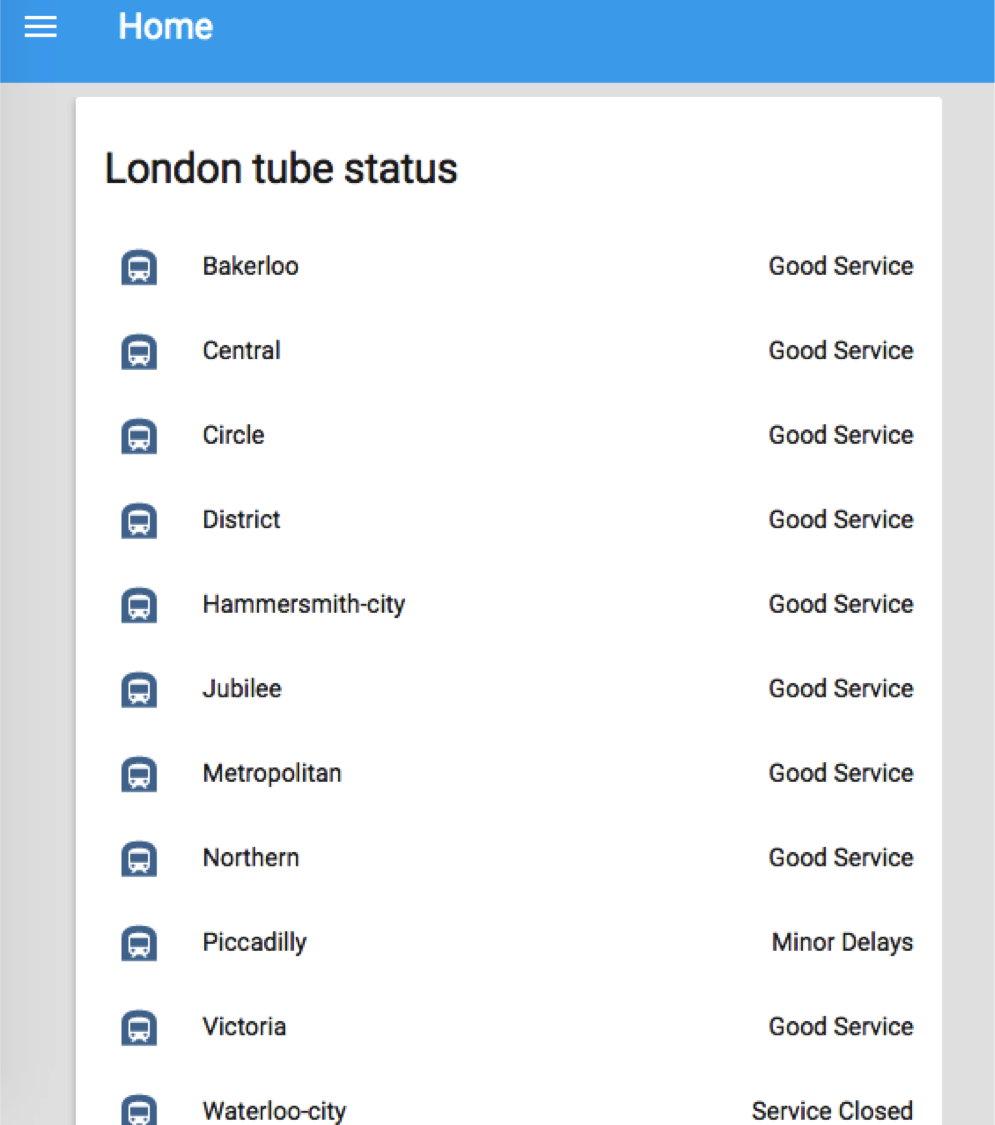
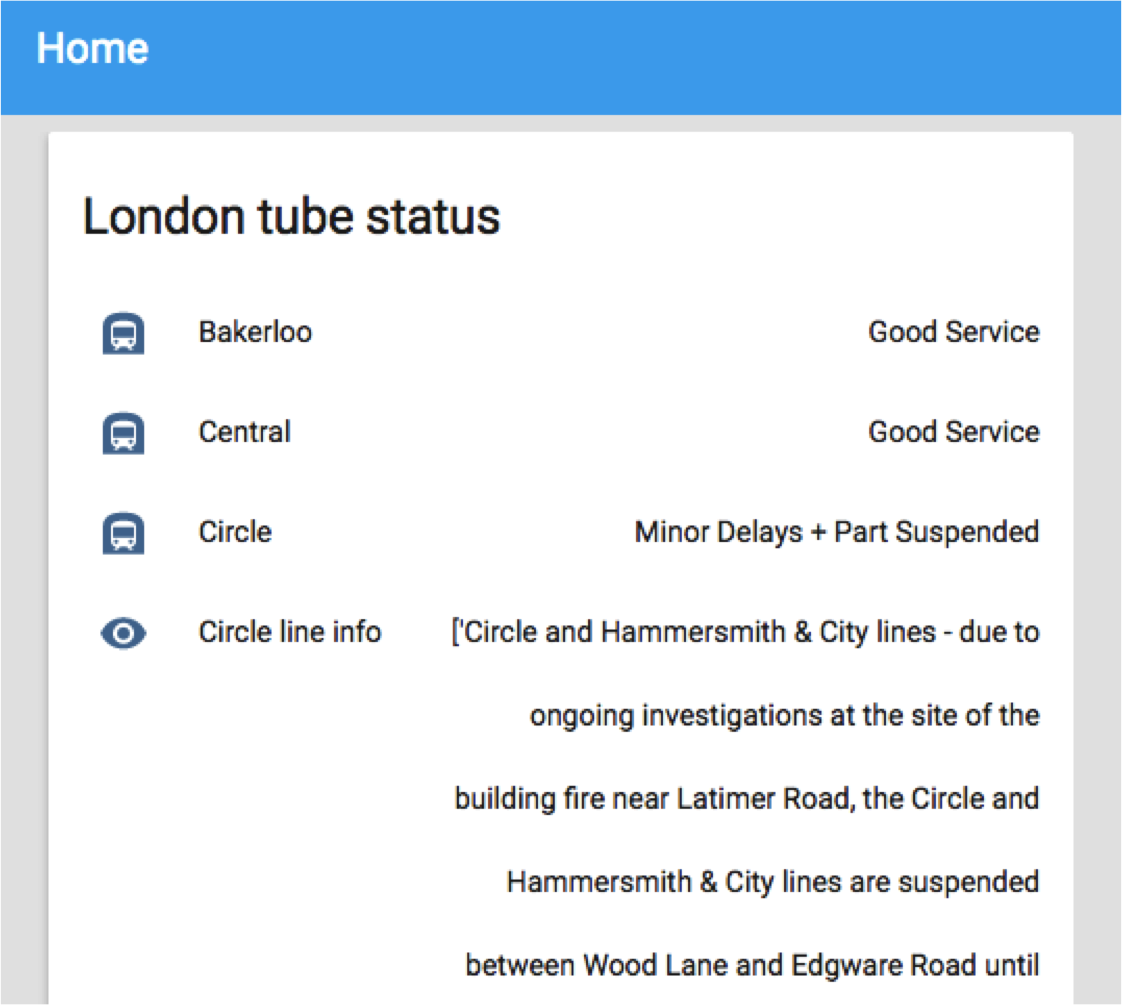
Added attributes
Attributes are statuses, goodness (True = good service), description

diff --git a/tube_state.py b/tube_state.py
@@ -65,6 +65,9 @@ class LondonTubeSensor(Entity):    # Entity
         self._url = self.API_URL_BASE
         self._line = line
         self._state = 'Updating'
+        self._statuses = []
+        self._goodness = False
+        self._description = 'Updating'
 
     @property
     def name(self):
@@ -97,12 +100,23 @@ class LondonTubeSensor(Entity):    # Entity
 
             if 'Good Service' in self._statuses:   # if good status, this is the only status returned
                 self._state = 'Good Service'
+                self._goodness = True              # convenience attribute to detect good service
                 self._description = 'Nothing to report'
             else:
-                self._state = 'Disruptions'
+                self._state = ' + '.join(set(self._statuses))   # get the unique statuses and join
+                self._goodness = False
                 self._description = [status['reason'] for status in self._data] # get the reasons
 
         except requests.RequestException as req_exc:
             print(
                 'Invalid response from API: %s', req_exc
             )
+
+    @property
+    def device_state_attributes(self):
+        """Return other details about the sensor state."""
+        attrs = {ATTR_ATTRIBUTION: ATTRIBUTION}  # {'attribution': 'Data provided by transportapi.com'}
+        attrs['Goodness'] = self._goodness # if there is data, append
+        attrs['Statuses'] = self._statuses # if there is data, append
+        attrs['Description'] = self._description # if there is data, append
+        return attrs
